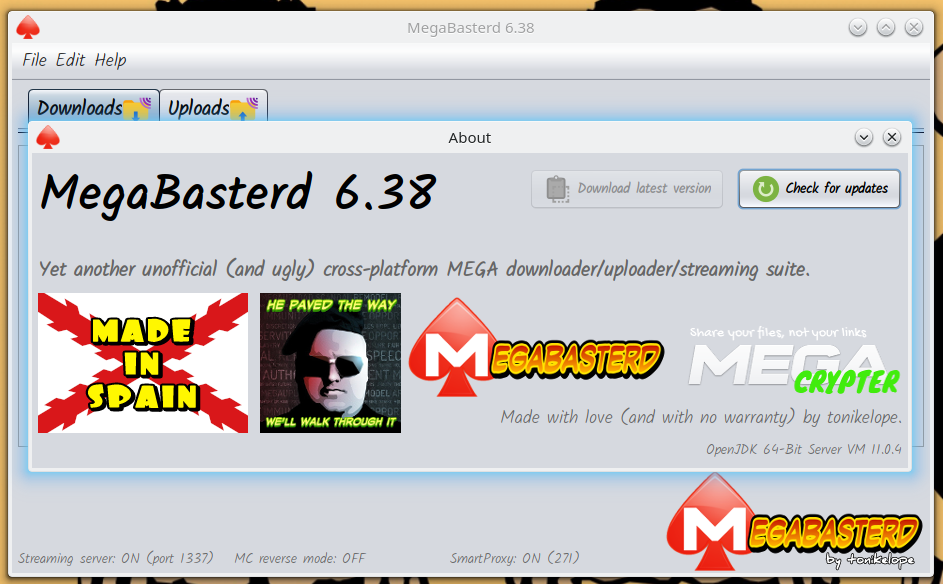
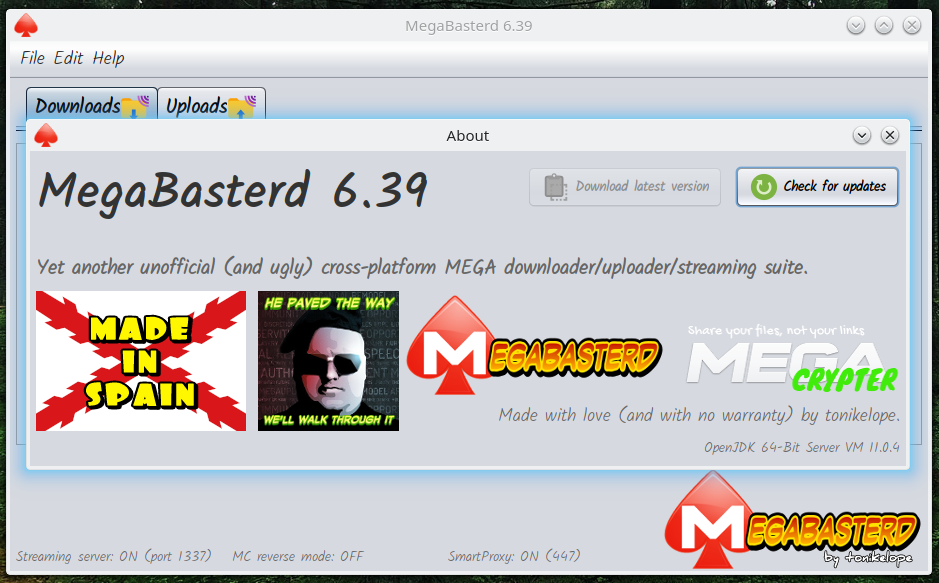
6.39
-Tunning threads priority
-Some GUIs fix

(cherry picked from commit d5a1ef2c69ad99628f70b85da13875323481d0d6)

Changed region(s): [[0.0, 0.0, 1.0, 1.0], [0.7721, 0.5557, 0.803, 0.5866], [0.7412, 0.6175, 0.7721, 0.6484]]

diff --git a/src/main/java/com/tonikelope/megabasterd/UploadView.java b/src/main/java/com/tonikelope/megabasterd/UploadView.java
@@ -540,17 +540,22 @@ public final class UploadView extends javax.swing.JPanel implements Transference
     }
 
     @Override
-    public void updateSpeed(String sp, Boolean visible) {
+    public void updateSpeed(final String speed, final Boolean visible) {
 
-        if (sp != null) {
+        swingInvoke(
+                new Runnable() {
+            @Override
+            public void run() {
 
-            speed_label.setText(sp);
-        }
+                if (speed != null) {
+                    speed_label.setText(speed);
+                }
 
-        if (visible != null) {
-
-            speed_label.setVisible(visible);
-        }
+                if (visible != null) {
+                    speed_label.setVisible(visible);
+                }
+            }
+        });
     }
 
     @Override
@@ -646,17 +651,17 @@ public final class UploadView extends javax.swing.JPanel implements Transference
                 }
             }
 
-            if (conta_error > 0) {
+            final Color status_color = conta_error > 0 ? Color.red : Color.black;
 
-                slot_status_label.setForeground(Color.red);
+            final String status = (conta_exit > 0 ? "Removing: " + conta_exit : "") + (conta_error > 0 ? ((conta_exit > 0 ? " / " : "") + "Error: " + conta_error) : "");
 
-            } else {
-
-                slot_status_label.setForeground(Color.black);
-            }
-
-            slot_status_label.setText((conta_exit > 0 ? "Removing: " + conta_exit : "") + (conta_error > 0 ? ((conta_exit > 0 ? " / " : "") + "Error: " + conta_error) : ""));
-
+            swingInvoke(new Runnable() {
+                @Override
+                public void run() {
+                    slot_status_label.setForeground(status_color);
+                    slot_status_label.setText(LabelTranslatorSingleton.getInstance().translate(status));
+                }
+            });
         }
     }
 

diff --git a/src/main/java/com/tonikelope/megabasterd/Download.java b/src/main/java/com/tonikelope/megabasterd/Download.java
@@ -1304,6 +1304,8 @@ public final class Download implements Transference, Runnable, SecureSingleThrea
 
     private boolean verifyFileCBCMAC(String filename) throws FileNotFoundException, Exception, NoSuchAlgorithmException, NoSuchPaddingException, InvalidKeyException, InvalidAlgorithmParameterException, IllegalBlockSizeException, BadPaddingException {
 
+        Thread.currentThread().setPriority(Thread.MIN_PRIORITY);
+
         int[] int_key = bin2i32a(UrlBASE642Bin(_file_key));
         int[] iv = new int[]{int_key[4], int_key[5]};
         int[] meta_mac = new int[]{int_key[6], int_key[7]};
@@ -1378,6 +1380,8 @@ public final class Download implements Transference, Runnable, SecureSingleThrea
             }
 
             int[] cbc = {file_mac[0] ^ file_mac[1], file_mac[2] ^ file_mac[3]};
+
+            Thread.currentThread().setPriority(Thread.NORM_PRIORITY);
 
             return (cbc[0] == meta_mac[0] && cbc[1] == meta_mac[1]);
         }

diff --git a/src/main/java/com/tonikelope/megabasterd/ChunkUploader.java b/src/main/java/com/tonikelope/megabasterd/ChunkUploader.java
@@ -93,6 +93,8 @@ public class ChunkUploader implements Runnable, SecureSingleThreadNotifiable {
     @Override
     public void run() {
 
+        Thread.currentThread().setPriority(Thread.NORM_PRIORITY - 1);
+
         LOG.log(Level.INFO, "{0} ChunkUploader {1} hello! {2}", new Object[]{Thread.currentThread().getName(), getId(), getUpload().getFile_name()});
 
         long chunk_id = 0;

diff --git a/src/main/java/com/tonikelope/megabasterd/ChunkDownloader.java b/src/main/java/com/tonikelope/megabasterd/ChunkDownloader.java
@@ -101,6 +101,8 @@ public class ChunkDownloader implements Runnable, SecureSingleThreadNotifiable {
     @Override
     public void run() {
 
+        Thread.currentThread().setPriority(Thread.NORM_PRIORITY - 1);
+
         LOG.log(Level.INFO, "{0} Worker [{1}]: let''s do some work!", new Object[]{Thread.currentThread().getName(), _id});
 
         HttpURLConnection con;

diff --git a/src/main/java/com/tonikelope/megabasterd/MainPanel.java b/src/main/java/com/tonikelope/megabasterd/MainPanel.java
@@ -50,7 +50,7 @@ import javax.swing.UIManager;
  */
 public final class MainPanel {
 
-    public static final String VERSION = "6.38";
+    public static final String VERSION = "6.39";
     public static final int THROTTLE_SLICE_SIZE = 16 * 1024;
     public static final int DEFAULT_BYTE_BUFFER_SIZE = 16 * 1024;
     public static final int STREAMER_PORT = 1337;

diff --git a/src/main/java/com/tonikelope/megabasterd/ChunkDownloaderMono.java b/src/main/java/com/tonikelope/megabasterd/ChunkDownloaderMono.java
@@ -27,6 +27,8 @@ public class ChunkDownloaderMono extends ChunkDownloader {
     @Override
     public void run() {
 
+        Thread.currentThread().setPriority(Thread.NORM_PRIORITY - 1);
+
         LOG.log(Level.INFO, "{0} Worker [{1}]: let''s do some work!", new Object[]{Thread.currentThread().getName(), getId()});
 
         HttpURLConnection con = null;

diff --git a/src/main/java/com/tonikelope/megabasterd/UploadMACGenerator.java b/src/main/java/com/tonikelope/megabasterd/UploadMACGenerator.java
@@ -73,6 +73,8 @@ public final class UploadMACGenerator implements Runnable, SecureSingleThreadNot
     @Override
     public void run() {
 
+        Thread.currentThread().setPriority(Thread.MIN_PRIORITY);
+
         try {
 
             boolean mac = false;
